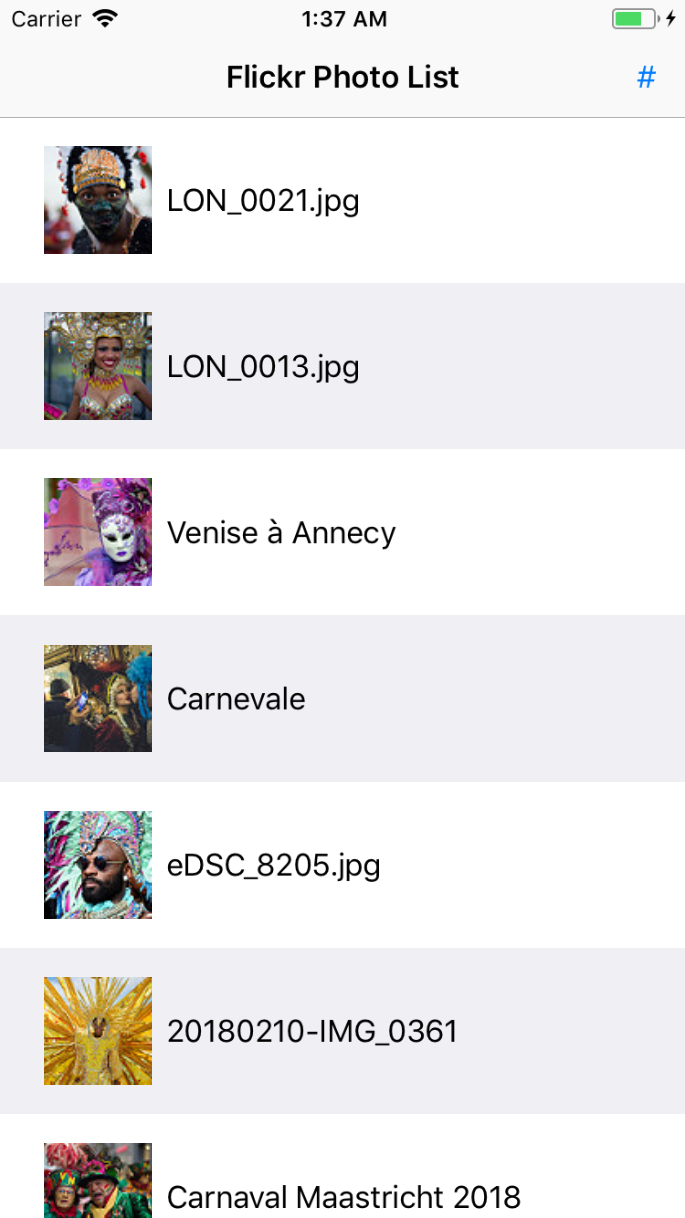
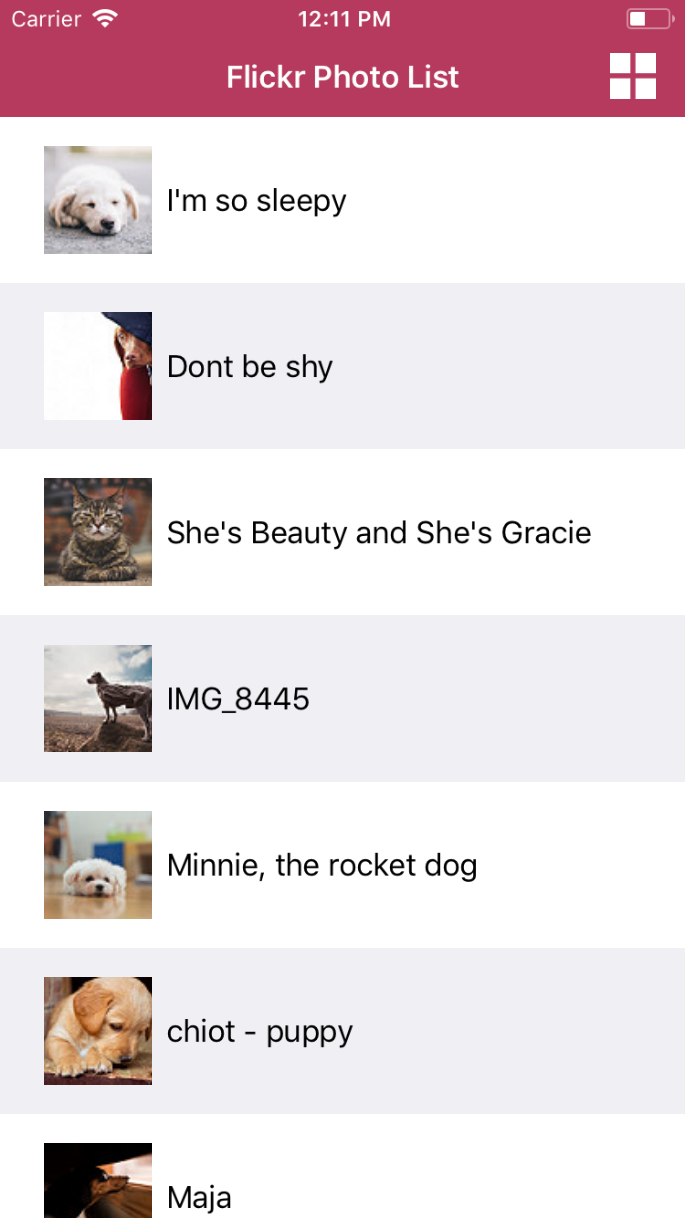
Added some color and changed the default gallery.

diff --git a/PhotoViewer/List View/ListViewController.swift b/PhotoViewer/List View/ListViewController.swift
@@ -18,6 +18,10 @@ class ListViewController: UITableViewController {
         return vc;
     }
     
+    override var preferredStatusBarStyle: UIStatusBarStyle {
+        return .lightContent;
+    }
+    
     override func viewDidLoad() {
         super.viewDidLoad()
         
@@ -32,13 +36,17 @@ class ListViewController: UITableViewController {
                     self.photos = lst;
                     DispatchQueue.main.async {
                         self.tableView.reloadData();
-                        self.navigationItem.rightBarButtonItem = UIBarButtonItem(title: "#", style: .plain, target: self, action: #selector(self.switchToGrid));
+                        self.setRightBarButton();
                     }
                 }
             }
         } else {
-            self.navigationItem.rightBarButtonItem = UIBarButtonItem(title: "#", style: .plain, target: self, action: #selector(self.switchToGrid));
+            self.setRightBarButton();
         }
+    }
+    
+    private func setRightBarButton() {
+        self.navigationItem.rightBarButtonItem = UIBarButtonItem(image: #imageLiteral(resourceName: "grid"), style: .plain, target: self, action: #selector(self.switchToGrid));
     }
     
     @objc func switchToGrid() {
@@ -66,7 +74,12 @@ class ListViewController: UITableViewController {
             cell.backgroundColor = UIColor.white;
         }
         
-        cell.lblTitle.text = photo.title;
+        if let title = photo.title, !title.isEmpty {
+            cell.lblTitle.text = photo.title;
+        } else {
+            // Not all images have titles :(
+            cell.lblTitle.text = "Photo";
+        }
         
         photo.getThumbnail { (image, error) in
             if (cell.id == photo.id) {

diff --git a/PhotoViewer/Grid View/GridViewController.swift b/PhotoViewer/Grid View/GridViewController.swift
@@ -9,6 +9,7 @@
 import UIKit
 
 class GridViewController: UICollectionViewController, UICollectionViewDelegateFlowLayout {
+    let numberOfPhotosPerRow: CGFloat = 4;
     var photos: [Photo]!;
     
     class func fromStoryboard(photos: [Photo]) -> GridViewController? {
@@ -18,10 +19,14 @@ class GridViewController: UICollectionViewController, UICollectionViewDelegateFl
         return vc;
     }
     
+    override var preferredStatusBarStyle: UIStatusBarStyle {
+        return .lightContent;
+    }
+    
     override func viewDidLoad() {
         super.viewDidLoad();
         self.title = "Flickr Photo Grid";
-        self.navigationItem.rightBarButtonItem = UIBarButtonItem(title: "=", style: .plain, target: self, action: #selector(self.switchToList));
+        self.navigationItem.rightBarButtonItem = UIBarButtonItem(image: #imageLiteral(resourceName: "list"), style: .plain, target: self, action: #selector(self.switchToList));
     }
     
     @objc func switchToList() {
@@ -65,7 +70,7 @@ class GridViewController: UICollectionViewController, UICollectionViewDelegateFl
     }
     
     func collectionView(_ collectionView: UICollectionView, layout collectionViewLayout: UICollectionViewLayout, sizeForItemAt indexPath: IndexPath) -> CGSize {
-        let w = collectionView.bounds.width / 4;
+        let w = collectionView.bounds.width / numberOfPhotosPerRow;
         return CGSize(width: w, height: w);
     }
     func collectionView(_ collectionView: UICollectionView, layout collectionViewLayout: UICollectionViewLayout, minimumInteritemSpacingForSectionAt section: Int) -> CGFloat {

diff --git a/PhotoViewer/API/DataCenter.swift b/PhotoViewer/API/DataCenter.swift
@@ -21,6 +21,9 @@ class DataCenter {
         return nil;
     }
     
+    // I found a photo gallery on Flickr, this is the id
+    var gallery_id: String = "66911286-72157693718156901";
+    
     var baseURLString: String {
         return "https://api.flickr.com/services/rest/?";
     }
@@ -34,7 +37,7 @@ class DataCenter {
                       "nojsoncallback" : "1",
                       "api_key" : API_Key,
                       "method" : "flickr.galleries.getPhotos",
-                      "gallery_id" : "66911286-72157693170803464"];
+                      "gallery_id" : gallery_id];
         comps.queryItems = [];
         for (key, value) in params {
             comps.queryItems?.append(URLQueryItem(name: key, value: value));

diff --git a/PhotoViewer/AppDelegate.swift b/PhotoViewer/AppDelegate.swift
@@ -16,6 +16,8 @@ class AppDelegate: UIResponder, UIApplicationDelegate {
 
     func application(_ application: UIApplication, didFinishLaunchingWithOptions launchOptions: [UIApplicationLaunchOptionsKey: Any]?) -> Bool {
         // Override point for customization after application launch.
+        UINavigationBar.appearance().barStyle = .blackOpaque
+        UIApplication.shared.statusBarStyle = .lightContent
         return true
     }
 
